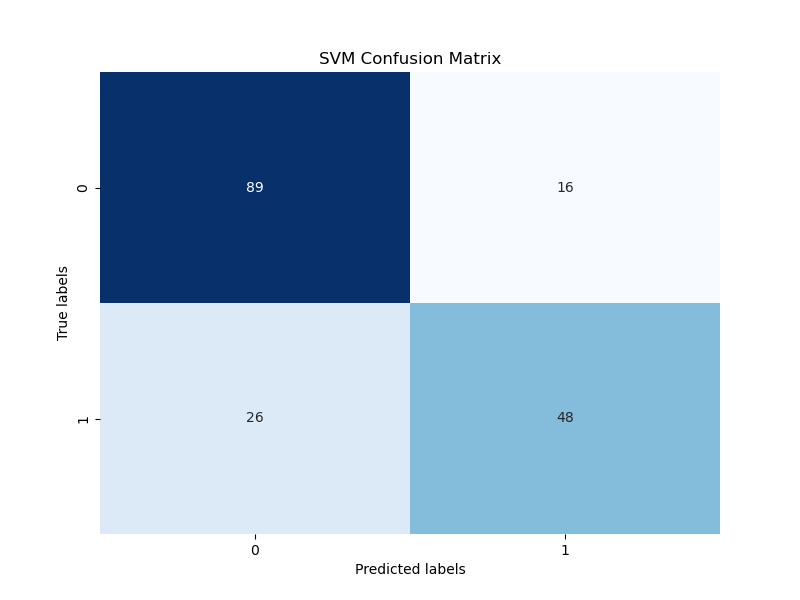
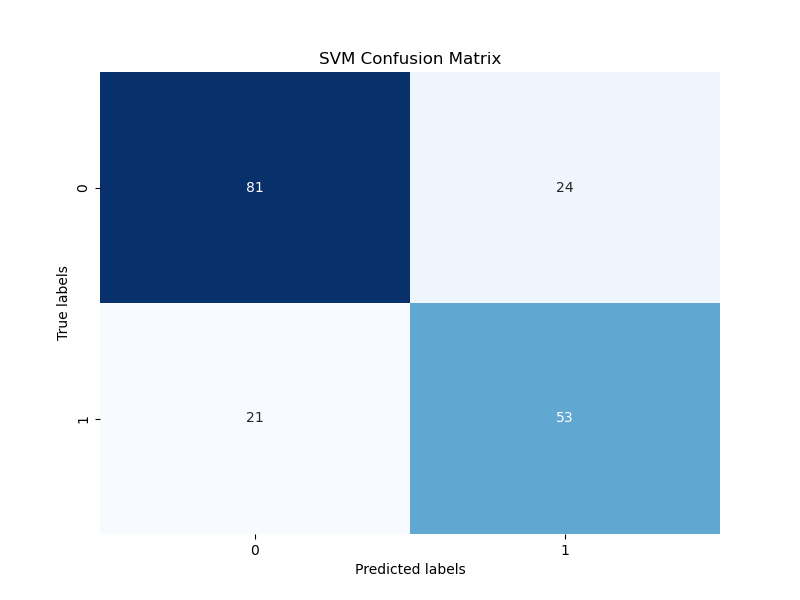
adjusting svm parameters for better prediction results

Changed region(s): [[0.125, 0.48, 0.9062, 0.9], [0.6875, 0.3, 0.7188, 0.33], [0.3125, 0.3, 0.3438, 0.33]]

diff --git a/titanic-ml.py b/titanic-ml.py
@@ -153,7 +153,7 @@ print(classification_report(y_val, y_pred_lr))
 
 # Parameter tuning for SVM
 param_grid_svm = {'C': [0.1, 1, 10, 100], 'gamma': [1, 0.1, 0.01, 0.001], 'kernel': ['rbf']}
-svm = SVC()
+svm = SVC(class_weight='balanced')  # Add class_weight='balanced'
 grid_search_svm = GridSearchCV(svm, param_grid_svm, cv=5)
 grid_search_svm.fit(X_train, y_train)
 
@@ -161,7 +161,7 @@ grid_search_svm.fit(X_train, y_train)
 best_params_svm = grid_search_svm.best_params_
 
 # Train SVM with the best parameters
-svm = SVC(C=best_params_svm['C'], gamma=best_params_svm['gamma'], kernel=best_params_svm['kernel'])
+svm = SVC(C=best_params_svm['C'], gamma=best_params_svm['gamma'], kernel=best_params_svm['kernel'], class_weight='balanced')
 svm.fit(X_train, y_train)
 
 # Evaluate SVM model performance
@@ -170,11 +170,18 @@ accuracy_svm = accuracy_score(y_val, y_pred_svm)
 print(f"SVM model accuracy: {accuracy_svm}")
 print(classification_report(y_val, y_pred_svm))
 
+# Check class distribution in predictions
+print("Class distribution in SVM predictions (validation set):", np.bincount(y_pred_svm))
+
 # Predict survival on test data using all models
 rf_pred_test = rf.predict(test_df.drop('Survived', axis=1))
 knn_pred_test = knn.predict(test_df_scaled)  # Use scaled test data for KNN prediction
 lr_pred_test = lr.predict(test_df.drop('Survived', axis=1))
 svm_pred_test = svm.predict(test_df.drop('Survived', axis=1))
+
+# Check class distribution in test predictions
+print("Class distribution in SVM predictions (test set):", np.bincount(svm_pred_test))
+
 
 # Save predictions to CSV files
 test_df['Survived_RF'] = rf_pred_test
